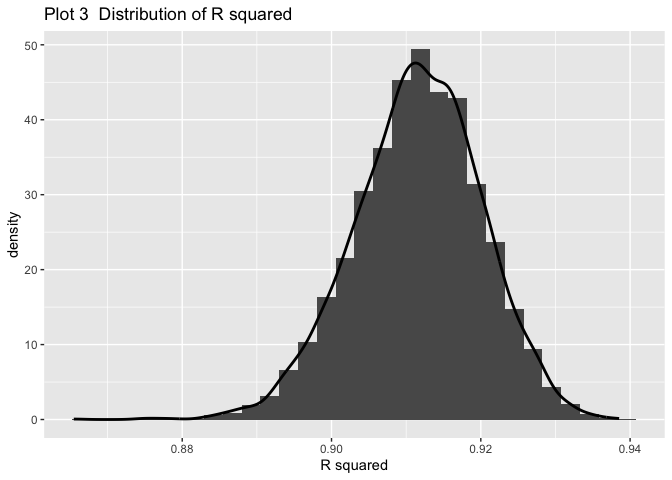
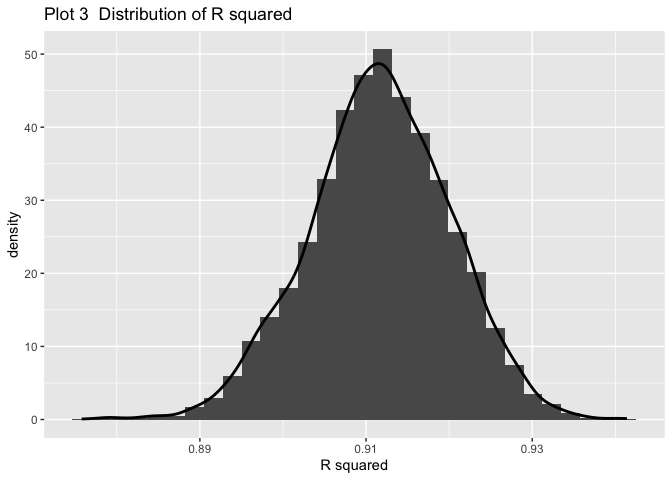
Final version of homework 6

diff --git a/p8105_hw6_rq2166.md b/p8105_hw6_rq2166.md
@@ -128,6 +128,8 @@ summary(mod)
     ## Multiple R-squared:  0.7148, Adjusted R-squared:  0.7142 
     ## F-statistic:  1086 on 10 and 4331 DF,  p-value: < 2.2e-16
 
+**Comment**
+
 First of all, I put all variables into the regression, and select 8
 variables with p-value smaller than 0.05. Finally, built a new model
 with selected variables as the final model.
@@ -148,9 +150,12 @@ birthweight %>%
 
 ![](p8105_hw6_rq2166_files/figure-gfm/unnamed-chunk-3-1.png)<!-- -->
 
+**Comment**
+
 According to Plot 1, the residuals are bounce around zero with constant
-variance. The grey line is y = 0, the red line is the regression line of
-the residuals.
+variance. The grey line is `y = 0`, the red line is the regression line
+of the residuals. So the regression line of the residuals are very close
+to the `y = 0`.
 
 ``` r
  mod_1 = lm(bwt~blength + gaweeks,birthweight)
@@ -193,9 +198,6 @@ cv_df =
                              ~rmse(model = .x, data = .y)))
 ```
 
-    ## Warning in predict.lm(model, data): prediction from a rank-deficient fit
-    ## may be misleading
-
 ``` r
 cv_df %>% 
   select(starts_with("rmse")) %>% 
@@ -214,6 +216,8 @@ cv_df %>%
 ```
 
 ![](p8105_hw6_rq2166_files/figure-gfm/unnamed-chunk-7-1.png)<!-- -->
+
+**Comment**
 
 According to Plot 2, model `diy` is the model built by myself, model 1
 and 2 denote the models described by the `Problem 1`. Since the model
@@ -302,6 +306,13 @@ estimate %>%
 
 ![](p8105_hw6_rq2166_files/figure-gfm/unnamed-chunk-10-2.png)<!-- -->
 
+**Comment**
+
+According to Plot 3, the distribution of `R squared`, can be considered
+as bell shaped, which means it is normally distributed. According to
+Plot 4, the distribution of `log(bea_1 * beta_2)`, can be considered as
+normal as well.
+
 ``` r
 n = 
 estimate %>% 
@@ -316,23 +327,78 @@ estimate %>%
            str_c(round(r.squared[0.025*n],4),
                  "-",round(r.squared[0.975*n],4)),
          log_b = sort(log_b),
-         ci_95_log_b =
+         "ci_95_log_beta1*bate2" =
            str_c(round(log_b[0.025*n],4),
                  "-",
                  round(log_b[0.975*n],4))) %>% 
   select(-r.squared,-log_b) %>% 
     unique() %>% 
   pivot_longer(ci_95_r_squared:
-               ci_95_log_b,
+               "ci_95_log_beta1*bate2",
                names_prefix = "ci_95_",
                names_to = "variable",
                values_to = "CI") 
 
-ci
+ci %>% 
+    knitr::kable(format = "html")
 ```
 
-    ## # A tibble: 2 x 2
-    ##   variable  CI           
-    ##   <chr>     <chr>        
-    ## 1 r_squared 0.894-0.9274 
-    ## 2 log_b     1.9656-2.0584
+<table>
+
+<thead>
+
+<tr>
+
+<th style="text-align:left;">
+
+variable
+
+</th>
+
+<th style="text-align:left;">
+
+CI
+
+</th>
+
+</tr>
+
+</thead>
+
+<tbody>
+
+<tr>
+
+<td style="text-align:left;">
+
+r\_squared
+
+</td>
+
+<td style="text-align:left;">
+
+0.8945-0.9277
+
+</td>
+
+</tr>
+
+<tr>
+
+<td style="text-align:left;">
+
+log\_beta1\*bate2
+
+</td>
+
+<td style="text-align:left;">
+
+1.9669-2.0588
+
+</td>
+
+</tr>
+
+</tbody>
+
+</table>
